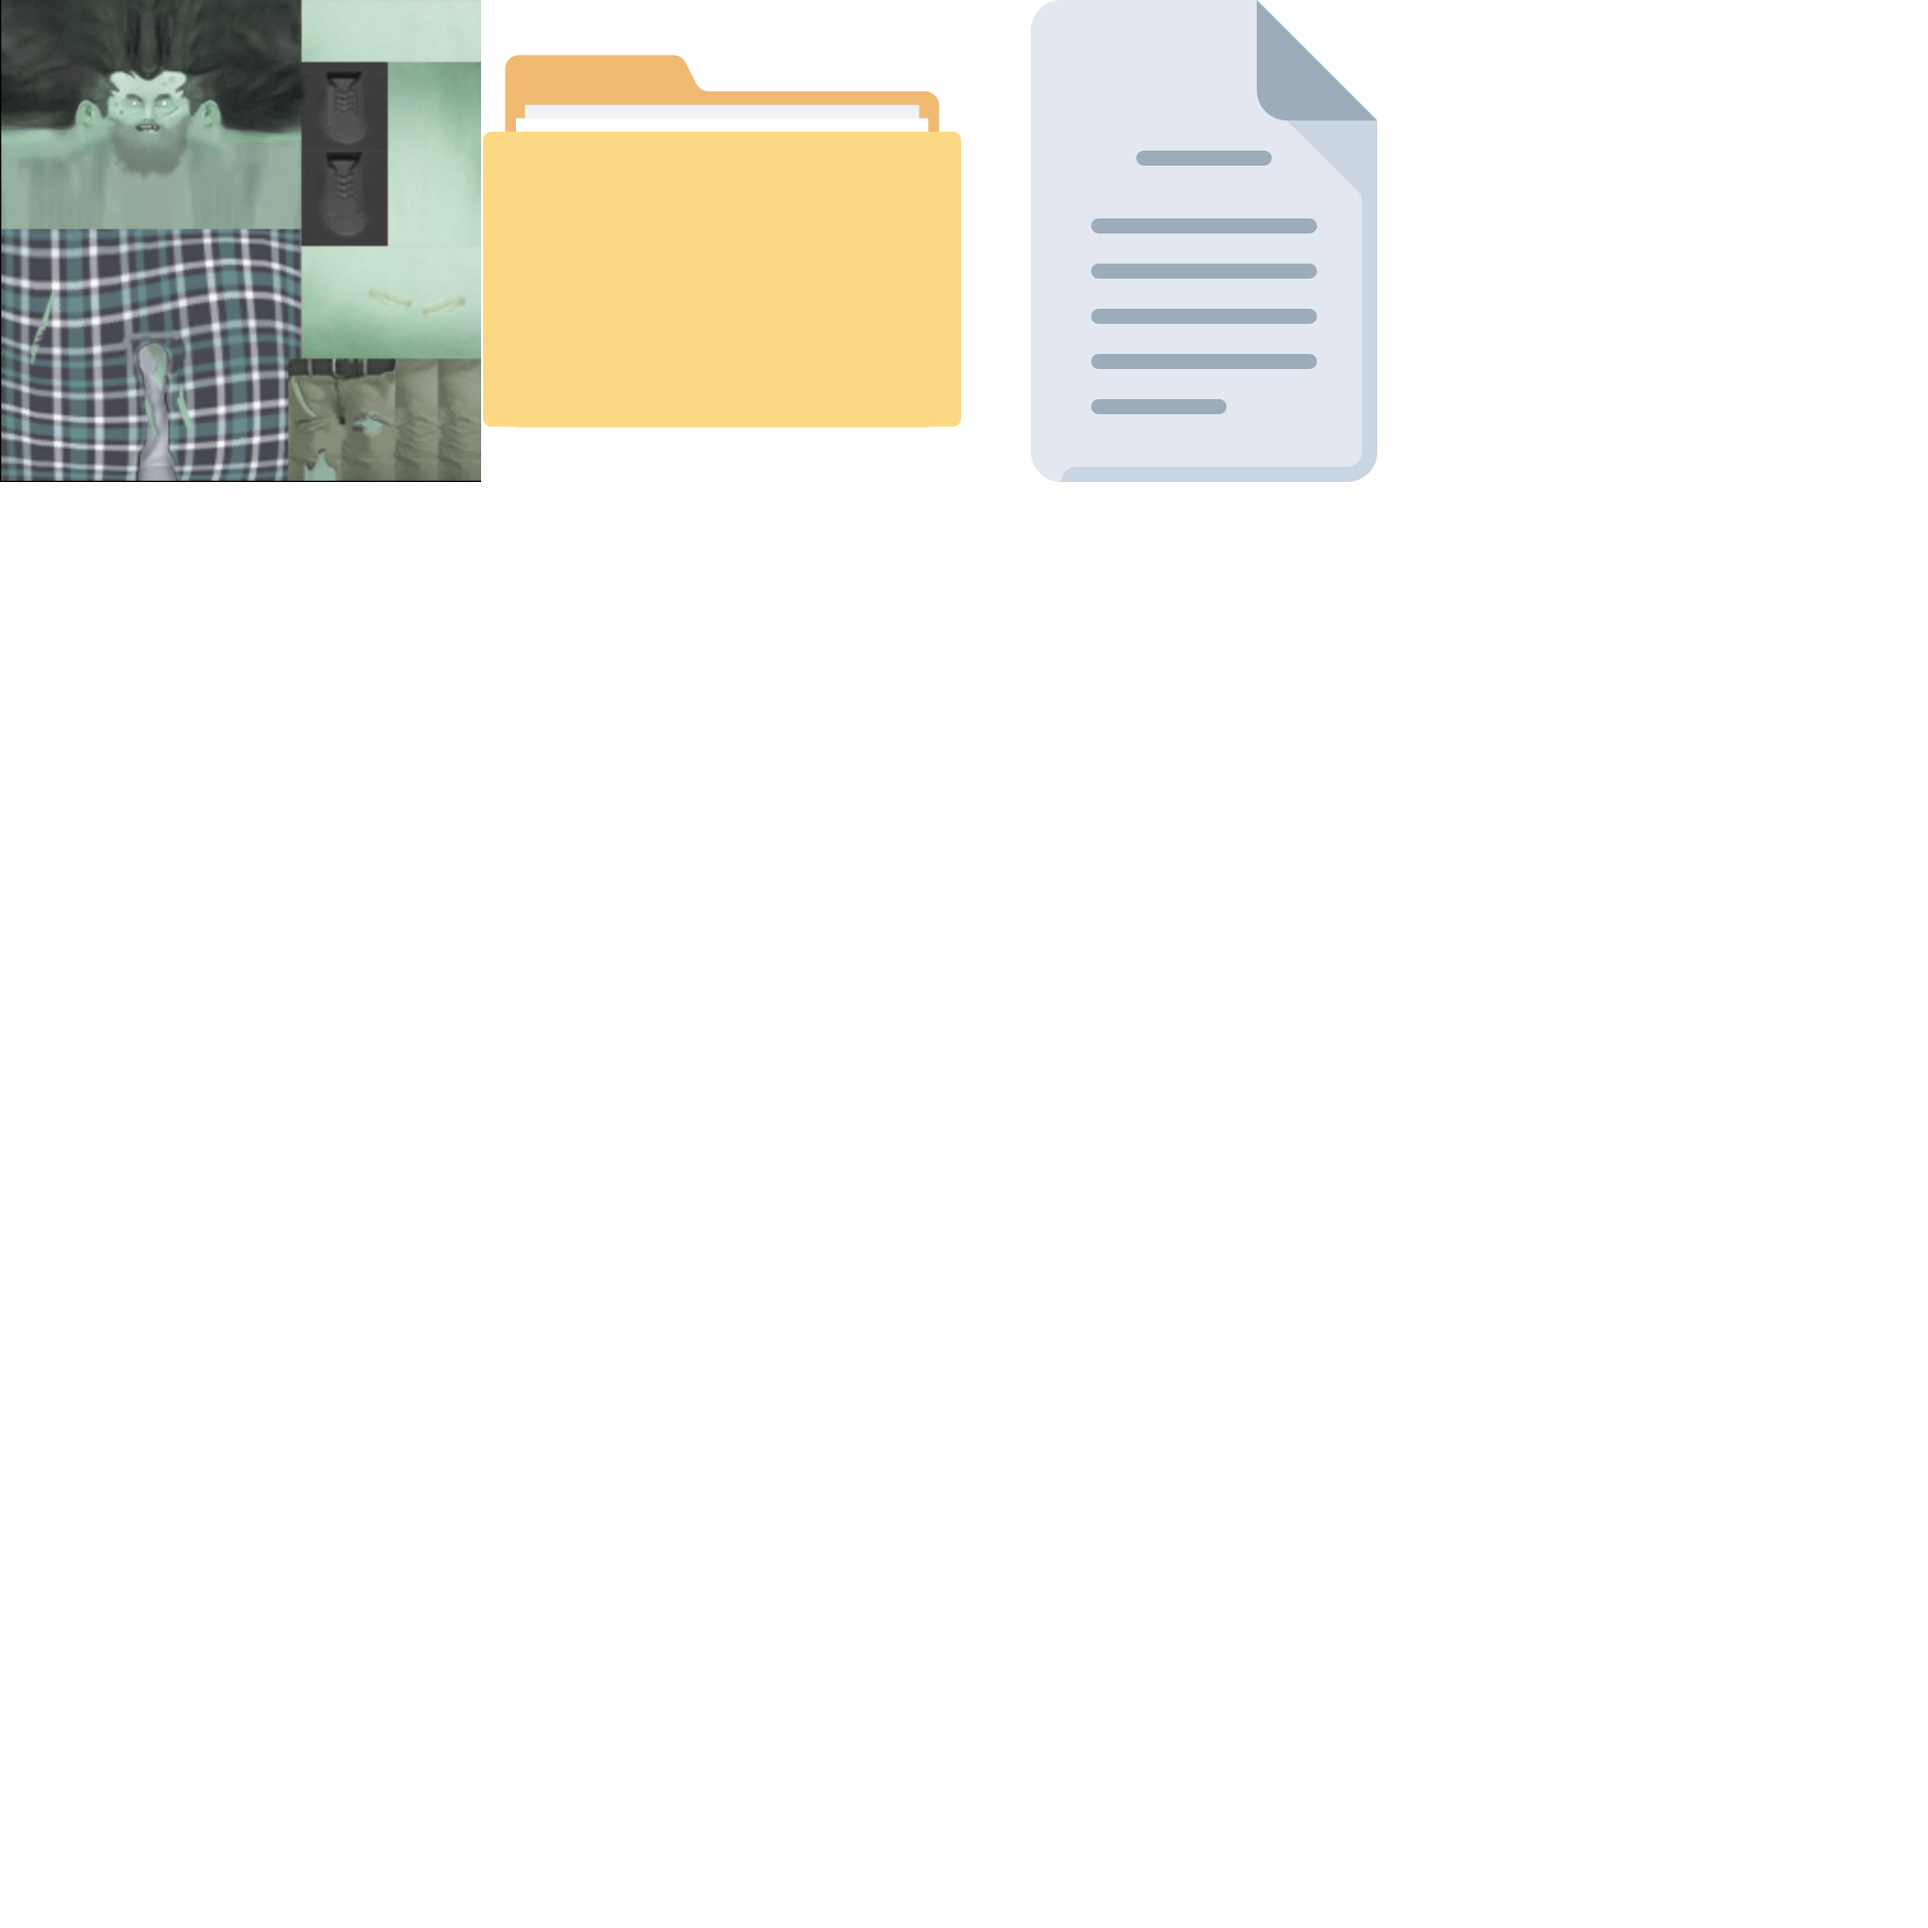
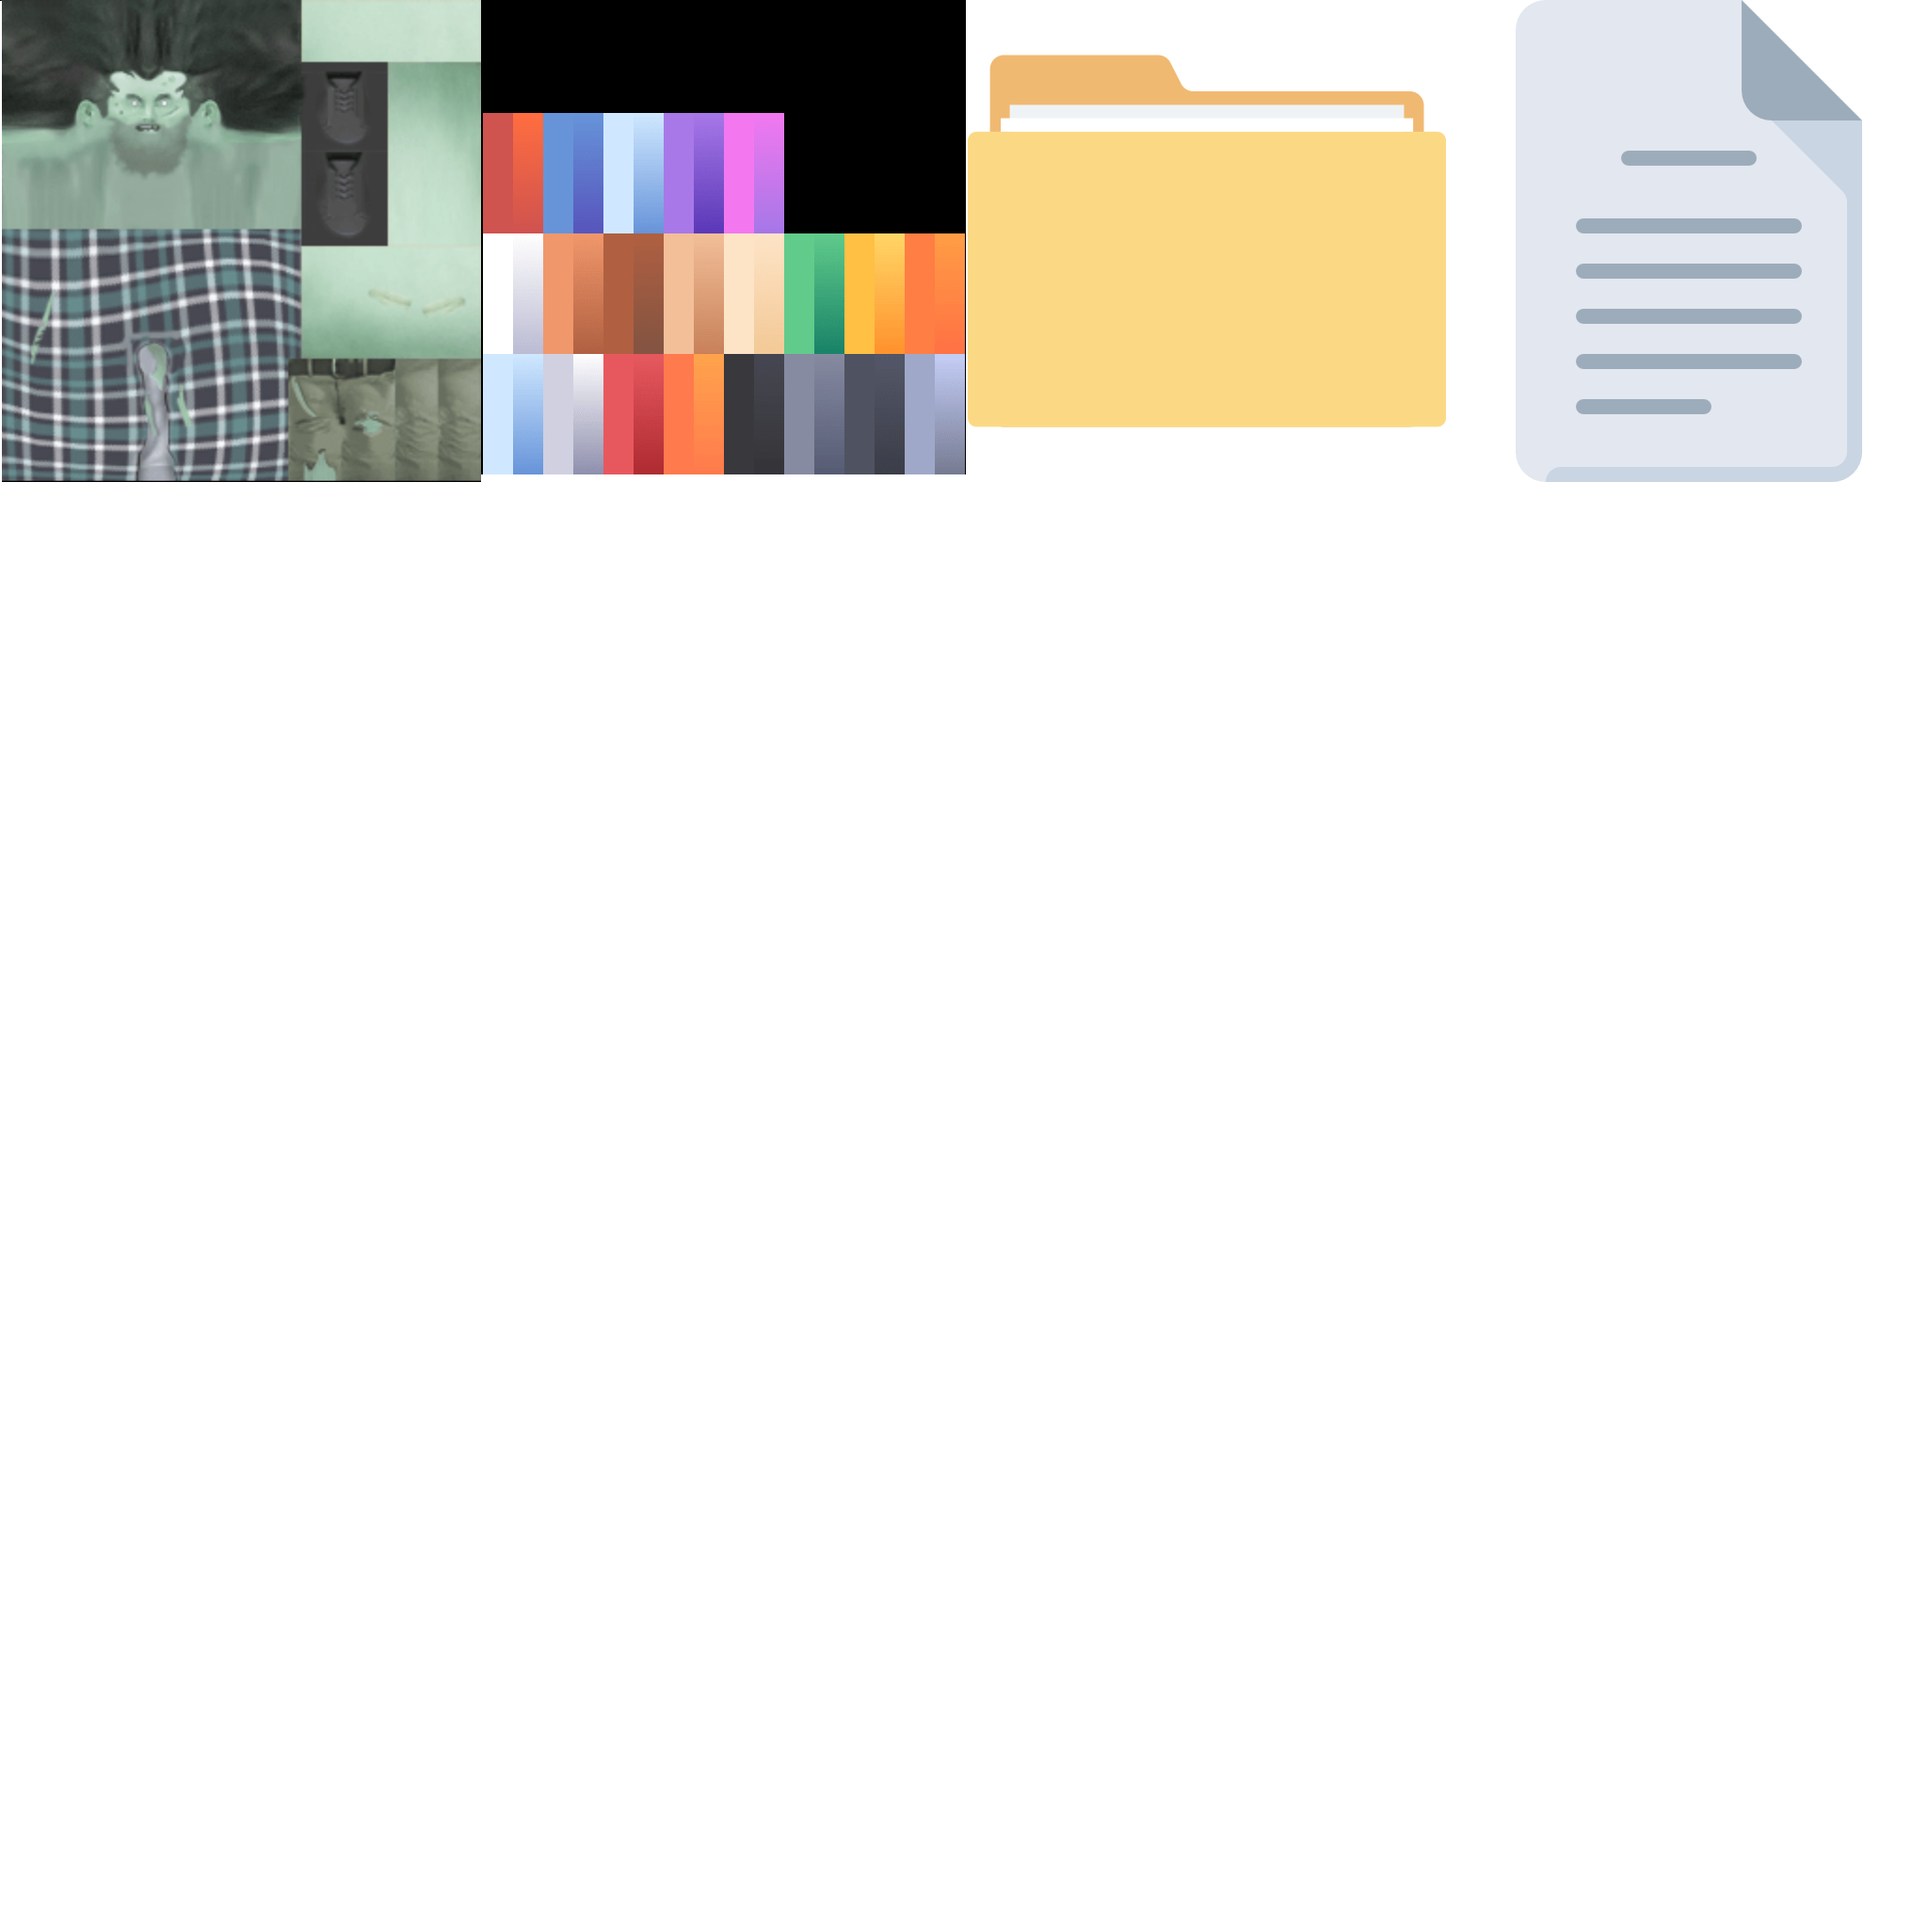
Теперь текстуры нормально натягиваются на модели, есть проблема с текстурами из Kenney, но решается если заскриншотить их))

Changed region(s): [[0.25, 0.0, 0.75, 0.25], [0.7812, 0.0, 0.9688, 0.25]]

diff --git a/Engine/src/Scene/Scene.cpp b/Engine/src/Scene/Scene.cpp
@@ -16,10 +16,11 @@
 
 namespace Engine {
     Scene::Scene()
-        :   mPoliceMesh(MeshManager::CreateMesh("assets/models/Axe.fbx")), mMaleMesh(MeshManager::CreateMesh("assets/models/Medium.fbx"))
+        :   mTrainMesh(MeshManager::CreateMesh("assets/models/Train.fbx")), mZombieMesh(MeshManager::CreateMesh("assets/models/Medium.fbx"))
             , mSkybox(std::make_shared<Skybox>("assets/textures/Skybox.png"))
     {
-        mTempSpite.Texture = TextureManager::CreateTexture("assets/textures/ZombieMale.png");
+        mZombieTexture.Texture = TextureManager::CreateTexture("assets/textures/ZombieMale.png");
+        mTrainTexture.Texture = TextureManager::CreateTexture("assets/textures/Temp.png");
     }
 
     Scene::~Scene() {}
@@ -62,15 +63,14 @@ namespace Engine {
             for (uint32_t x{0}; x < 2; ++x) {
                 for (uint32_t y{0}; y < 2; ++y) {
                     tMale.Position.x += 80.f;
-                    Renderer3D::DrawMesh(mMaleMesh, tMale, mTempSpite);
+                    tMale.Rotation = glm::rotate(tMale.Rotation, glm::radians(-90.f), glm::vec3(1, 0, 0));
+                    Renderer3D::DrawMesh(mZombieMesh, tMale, mZombieTexture);
                 }
                 tMale.Position.x = 0.f;
                 tMale.Position.y += 80.f;
             }
 
-            TransformComponent tPolice;
-            tPolice.Position.x -= 150.f;
-            Renderer3D::DrawMesh(mPoliceMesh, tPolice, mTempSpite);
+            Renderer3D::DrawMesh(mTrainMesh, TransformComponent(), mTrainTexture);
         }
         Renderer3D::EndScene();
     }

diff --git a/Engine/src/Render/Renderer3D.cpp b/Engine/src/Render/Renderer3D.cpp
@@ -135,12 +135,10 @@ namespace Engine {
             sData->VertexBufferPtr->Position = t * glm::vec4(vertex.Position, 1.f);
 
             glm::vec2 textureCoord = vertex.TextureCoord;
-            textureCoord.x = coords[1].x + (coords[0].x - coords[1].x) * (1.f - textureCoord.x);
-            textureCoord.y = coords[2].y + (coords[1].y - coords[2].y) * (1.f - textureCoord.y);
+            textureCoord.x = coords[0].x + (coords[1].x - coords[0].x) * textureCoord.x;
+            textureCoord.y = coords[0].y + (coords[2].y - coords[0].y) * (1 - textureCoord.y);
 
-            textureCoord.x = 1;
-            textureCoord.y = 1;
-
+            sData->VertexBufferPtr->TextureCoord = textureCoord;
             sData->VertexBufferPtr->Normal = vertex.Normal;
             // sData->VertexBufferPtr->TextureIndex = 1;
             sData->VertexBufferPtr->Color = glm::vec4(1.f);

diff --git a/Engine/src/Render/Texture/TextureManager.cpp b/Engine/src/Render/Texture/TextureManager.cpp
@@ -99,7 +99,7 @@ namespace Engine {
         return res;
     }
 
-    // Пока эта штука воозвращает просто 0, но потом, когда будет не один атлас, а несколько, то все будет иначе.
+    // Пока эта штука воозвращает просто 1, но потом, когда будет не один атлас, а несколько, то все будет иначе.
     uint32_t TextureManager::GetTextureSlot(const Ref<Texture2D> &texture) {
         return 1;
     }

diff --git a/Engine/include/Engine/Scene/Scene.hpp b/Engine/include/Engine/Scene/Scene.hpp
@@ -32,9 +32,11 @@ namespace Engine {
 
         entt::registry& GetRegistry() { return m_Registry; }
     private:
-        Ref<Mesh> mMaleMesh;
-        Ref<Mesh> mPoliceMesh;
-        SpriteComponent mTempSpite;
+        Ref<Mesh> mZombieMesh;
+        SpriteComponent mZombieTexture;
+
+        Ref<Mesh> mTrainMesh;
+        SpriteComponent mTrainTexture;
 
         Ref<Skybox> mSkybox;
 
